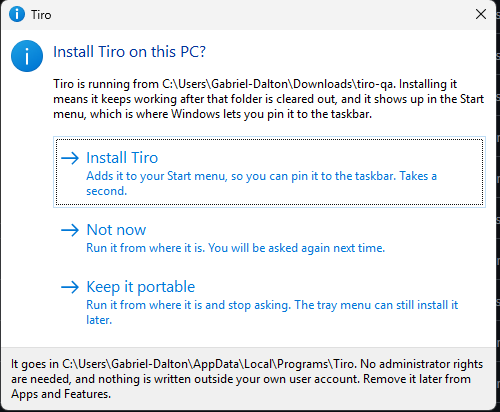
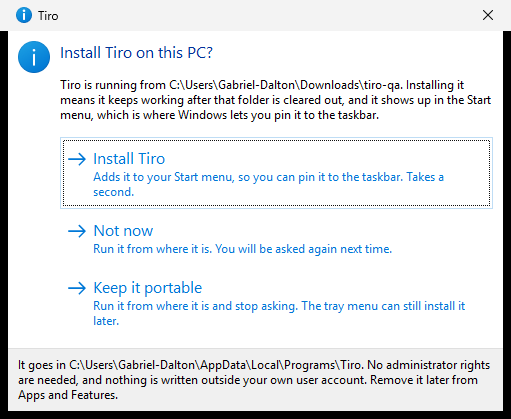
Photograph the Windows app, with the window drawing itself
Three real captures for the fork write-up: the install prompt, the uninstall prompt
with its data checkbox, and the app window. All out of the running app on Windows 11,
none staged.

Taken with PrintWindow, which hands the window a device context and lets it render
into it. The first attempt read the screen and cropped to a UI Automation rectangle,
and produced pictures of the wrong monitor: on a scaled multi-monitor desktop those
two are different coordinate spaces, and mixing them puts the crop wherever the
scaling factor sends it. PrintWindow has no coordinates in it, so scaling, monitor
layout and whatever happens to be stacked on top all stop mattering. It replaces the
one image that had been cropped by hand out of a screenshot.

The pill is not here, and cannot be taken without a person at the keyboard.
KeyboardHook.cs ignores injected input on purpose, so that the Ctrl+V the app sends
to paste a transcript cannot re-trigger the hotkey; a synthesised Right Alt does
nothing whatsoever. The button in the window is no way round it either, because
WebView2 does not expose its accessibility tree to a plain UI Automation client.
Which is the right outcome regardless: the waveform is somebody's voice, and a silent
take photographs as a flat line.

So the take is handed back rather than faked, with a script that watches for the pill
and captures both states around one keypress. FORK.md says all of this, including
what is still missing.

No impact note: documentation.

Changed region(s): [[0.0, 0.0, 1.0, 1.0], [0.12, 0.6699, 0.93, 0.7864]]

diff --git a/docs/FORK.md b/docs/FORK.md
@@ -54,8 +54,13 @@ API key unless you tick the box that says otherwise.
 
 ![The install prompt on first run](windows/install-prompt.png)
 
-Uninstalling asks once, and asks the question that actually matters rather than burying it: the
-history, settings and saved key are kept unless you tick the box that says to delete them.
+The app itself is the same web core the phone runs, inside a WebView2 window:
+
+![The Windows app window](windows/app-window.png)
+
+Uninstalling asks once, and asks the question that actually matters rather than burying it:
+
+![The uninstall prompt, with the data checkbox](windows/uninstall-prompt.png)
 
 Two things in here were harder than they look, and both are worth knowing if you ever ship a
 Windows build of anything:
@@ -163,13 +168,21 @@ Anyone updating this document: these are drawn from real hardware, never staged 
 | `windows/tray-menu.png` | The tray menu open, showing the install and pin items |
 | `windows/start-menu.png` | Start search finding Tiro, and the pin-to-taskbar option |
 | `windows/apps-and-features.png` | The Apps and Features entry, with version and publisher |
-| `windows/uninstall-prompt.png` | The uninstall prompt, with the "also delete my data" checkbox |
 | `phone-home-screen.png` | Tiro installed on an iPhone Home Screen, beside other apps |
 | `phone-take.png` | A finished take on the phone, transcript on screen |
 
-`windows/install-prompt.png` is done. It was cropped out of a screenshot taken during the install
-QA rather than staged, which is the standard the rest should meet.
+Done: `windows/install-prompt.png`, `windows/uninstall-prompt.png`, `windows/app-window.png`. All
+three are captures of the running app, not mock-ups.
 
-Capturing these from a script was tried and abandoned: on a multi-monitor scaled desktop the UI
-Automation rectangles and the screen capture disagree about where a window is, and the captures came
-out of the wrong monitor entirely. Win+Shift+S is the answer.
+They are taken with `PrintWindow`, which hands the window a device context and lets it draw itself.
+The first attempt read the screen instead, using UI Automation rectangles for the crop, and produced
+pictures of the wrong monitor: on a scaled multi-monitor desktop those two live in different
+coordinate spaces. `PrintWindow` has no coordinates in it at all, so none of that matters, and it
+captures a window that is behind another one.
+
+**The pill cannot be captured without a person**, and that is by design rather than a gap:
+`KeyboardHook.cs` ignores injected input, so that the Ctrl+V the app sends to paste a transcript
+cannot re-trigger the hotkey. A synthesised Right Alt does nothing at all. The button inside the
+window is no way round it either, because WebView2 does not expose its accessibility tree to a plain
+client. So the waveform has to be somebody's actual voice, which is the right answer anyway: a
+silent take photographs as a flat line.
